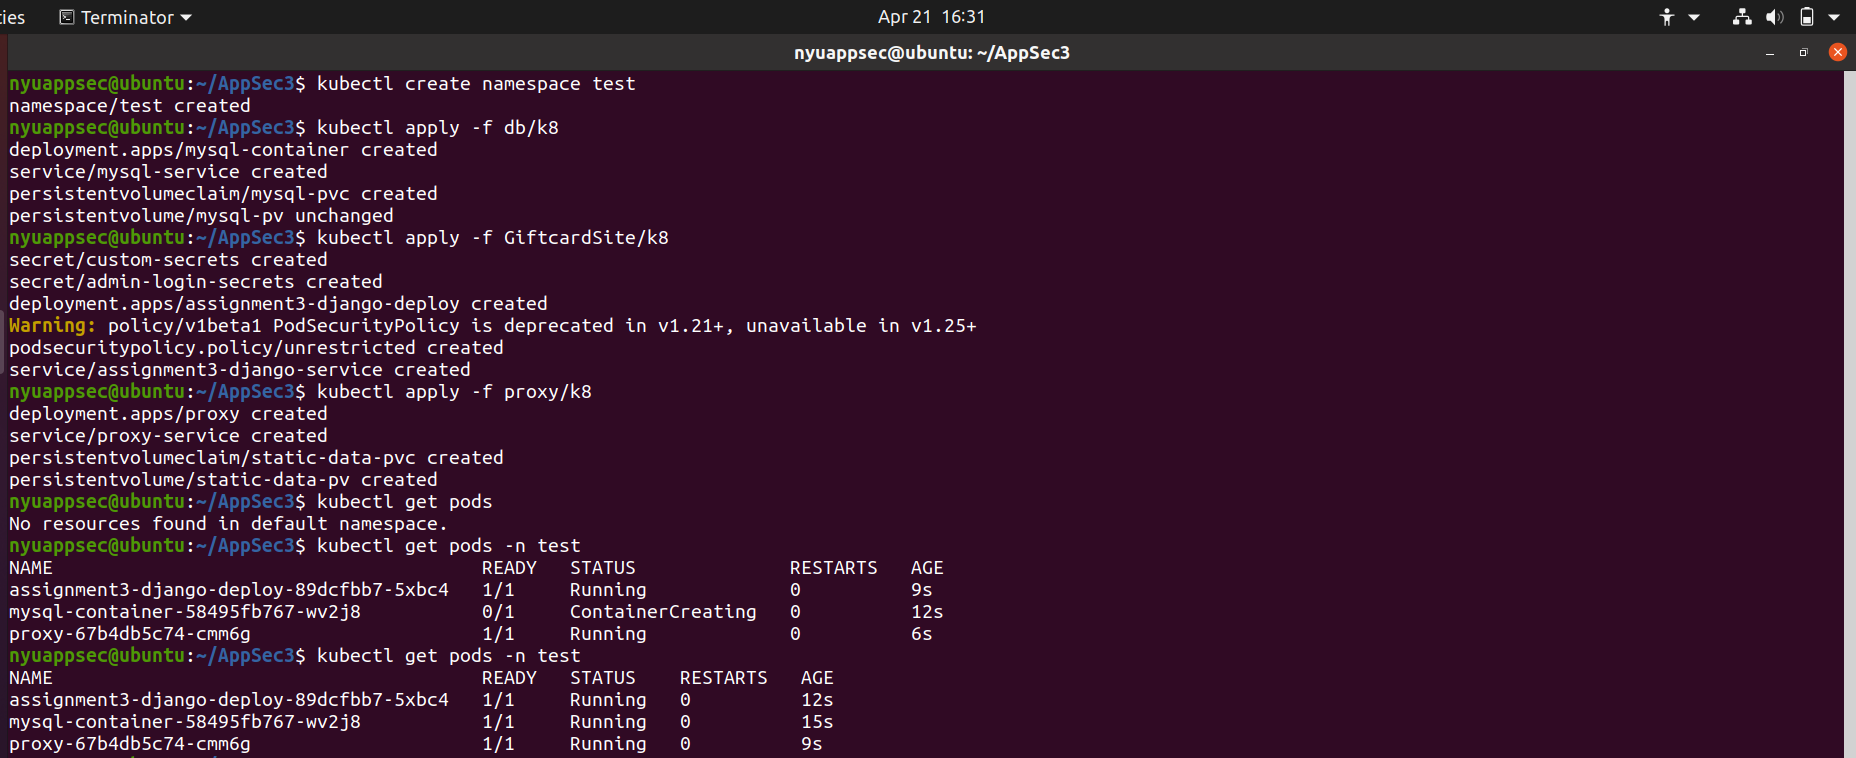
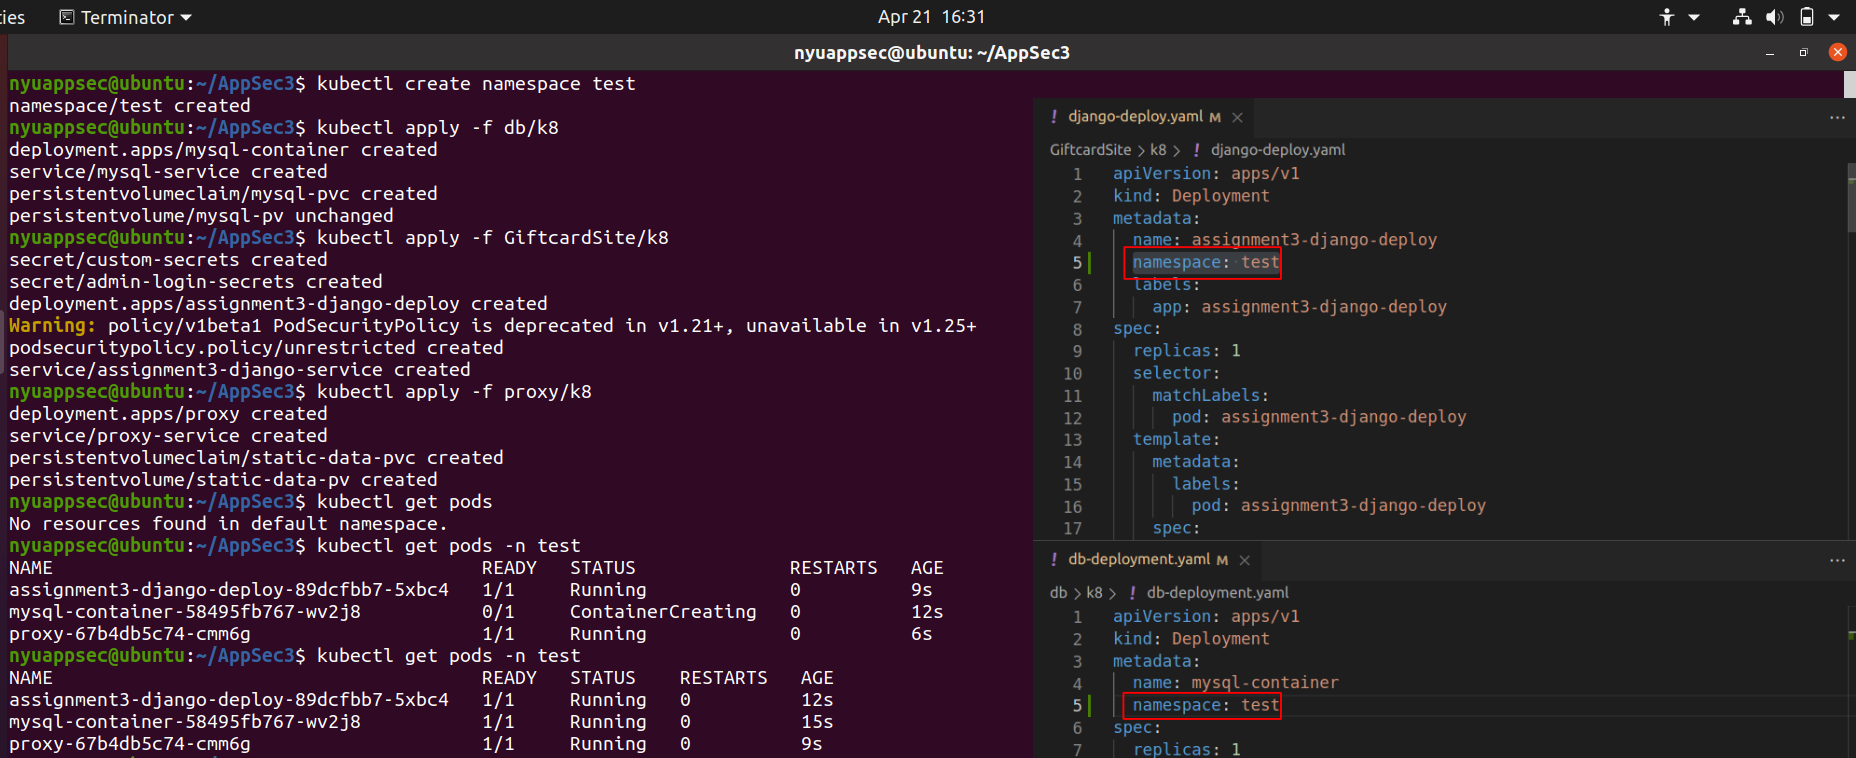
Final Upload

Changed region(s): [[0.5625, 0.1214, 1.0, 1.0]]

diff --git a/Report/ank8821-Appsec-Lab3.md b/Report/ank8821-Appsec-Lab3.md
@@ -1,9 +1,231 @@
 # Part 1: Remediate Security Review Findings
 
-### Finding 1:
+## Finding 1: Kubernetes Control #5.2.1
 ---
-We can see that the when we run `kubectl get psp` to view the security policy, our container is running with full privileges which should not be allowed.
-
-In order to remediate the finding, we run `kubectl edit `
+We can see that the when we run `kubectl get psp` to view the security policy, our container is running with full privileges which should not be allowed because then the container will be allowed to do almost everything the host can do. Additionally, in the image below when we run the command mentioned in the benchmark file to get the value for `spec.privileged` field from the psp we can see that it returns **true**.
 
 ![](./Artifacts/policy-1-1.png)
+
+In order to remediate the finding, we open the `django-psp.yaml` file in the GiftcardSite/k8 folder and change the privileged field from true to false. Upon applying the changes we can see that command now shows no output which means that there our container is not running with full privileges.
+
+![](./Artifacts/policy-1-2.png)
+
+## Finding 2: Kubernetes Control #5.2.2
+---
+Here, we have found that our container shares the host process ID namespace and it should not be allowed because this can assist in escalating privileges outside of the container. When we run the command in the benchmark to fetch for `spec.hostPID` value from the psp we can see that the output is **true**.
+
+![](./Artifacts/policy-2-1.png)
+
+In order to remediate the finding, we edit the psp file and change the hostPID field from true to false. Upon applying the changes we can see that our command no longer shows an output of true which means we there is not container that shares the host process ID namespace and we have successfully remediated the finding.
+
+![](./Artifacts/policy-2-2.png)
+
+## Finding 3: Kubernetes Control #5.2.3
+---
+Here, we have found that our container shares the host IPC namespace and this should not be allowed because this it can be used to interact with processes outside of the container. On running the command in the benchmark to fetch the value for `spec.hostIPC` from the psp, it gives an output of **true**.
+
+![](./Artifacts/policy-3-1.png)
+
+In order to remediate the finding, we edit the hostIPC field in the psp and change it to false. Upon applying the changes that our command no longer gives an output which indicates that we have successfully remediated the findings.
+
+![](./Artifacts/policy-3-2.png)
+
+## Finding 4: Kubernetes Control #5.2.4
+---
+We have found that our container shares the host network namespace and it should not be allowed because this can be used to access network traffic to and from other pods. On running the command in the benchmark to fetch the value for `spec.hostNetwork` we can see that it outputs a value **true**.
+
+![](./Artifacts/policy-4-1.png)
+
+In order to remediate the finding, we change the hostNetwork field in the psp to false. On applying the changes we can see that our command no longer gives an output which indicates that we have successfully remediated the finding.
+
+![](./Artifacts/policy-4-2.png)
+
+## Finding 5: Kubernetes Control #5.2.5
+---
+We have found that our container runs with allow privilege escalation flag set to true. This should not be allowed because this can allow the container to gain more privileges than the parent. On running the command in the benchmark to fetch the value for `spec.allowPrivilegeEscalation` we can see that it outputs a value **true**.
+
+![](./Artifacts/policy-5-1.png)
+
+In order to remediate the finding, we change the allowPrivilegeEscalation field in the psp to false. On applying the changes we can see that our command no longer gives an output which indicates that we have successfully remediated the finding.
+
+![](./Artifacts/policy-5-2.png)
+
+## Finding 6: Kubernetes Control #5.2.6
+---
+We have found that our container is allowed to run as root and it should not be allowed because this can be used to break out of the container. On running the command in the benchmark to fetch the value for `spec.runAsUser.rule` we can see that it outputs a value **RunAsAny** which indicates that it is allowed to run as root.
+
+![](./Artifacts/policy-6-1.png)
+
+In order to remediate the finding, we change the runAsUser field in the psp and set the rule to `MustRunAsNonRoot`. On applying the changes we can see that our command gives an output value of MustNotRunAsRoot which indicates that we have successfully remediated the finding.
+
+![](./Artifacts/policy-6-2.png)
+
+## Finding 7: Kubernetes Control #5.2.7
+---
+We have found that our container is running with NET_RAW capability and it should not be allowed because this capability can be misused by an attacker to create further damage if he has gained access to the pod or any other connected pod. On running the command in the benchmark to fetch the value for `spec.requiredDropCapabilities` we can see that it does not output anything. This means that the pod is not dropping any capabilities.
+
+![](./Artifacts/policy-7-1.png)
+
+In order to remediate the finding, we change add requiredDropCapabilities field in the psp and set its value to NET_RAW. On applying the changes we can see that our command gives an output of \["NET_RAW"\] which indicates that we have successfully remediated the finding.
+
+![](./Artifacts/policy-7-2.png)
+
+## Finding 8: Kubernetes Control #5.4.1
+---
+In this finding we can see in the image below that our pod uses sensitive values like secret key and the database password that is stored directly inside the settings.py and the deployment file in plaintext.
+
+![](./Artifacts/policy-8.png)
+
+In order to remediate this, we first create our own kubernetes secret file and store the new values for secret key and the database password in them. These values are base64 encoded.
+
+![](./Artifacts/policy-8a.png)
+
+We then make changes to our deployment file such that it fetches our base64 encoded values from the custom-secrets file that we created and stores them as environment variable in the pods.
+
+We also make changes to settings.py file so that our application fetches secret key and the database password from the environment variables. After applying the changes, when we get a shell on the pod we can see that the environment variables now have values that we had created and stored in the custom-secrets file.
+
+![](./Artifacts/policy-8b.png)
+
+On apply all the deployments again, we can see that our site is still running as expected.
+
+![](./Artifacts/policy-8c.png)
+
+## Finding 9: Kubernetes Control #5.7.1
+---
+We have found that currently there are no namespaces implemented in our deployment. We have to create a namespace so that resources in one namespace are hidden from another namespace which can help reduce the impact in case of an attack. When we run `kubectl get namespaces` we can see that we only have the default namespace.
+
+![](./Artifacts/policy-9.png)
+
+In order to remediate the finding we first create a namespace and make changes to all the yaml files in our Appsec3 folder. Under the metadata we add the namespace field with the value of test which is the namespace we created. We then apply the configurations and check if the pods run.
+In the image below we can see that our pods are running successfully.
+
+![](./Artifacts/policy-9-2.png)
+
+Now when we run `kubectl get namespaces` we can see our test namespace also exists. On running `minikube service list` we can see that our test namespace is up and running. Hence we have successfully remediated the finding.
+
+![](./Artifacts/policy-9-1.png)
+
+## Finding 10: Kubernetes Control #5.7.2
+---
+We have found that Seccomp is disabled in our cluster. This should not be done because Seccomp restricts the system calls applications make thus allowing administrator a greater control over the security of workload.
+We can see in the below image that our deployment files do not have the securitycontext set.
+
+![](./Artifacts/policy-10.png)
+
+In order to remediate the finding we add the following lines to all three of our deployment files
+
+> `securityContext:` </br>
+&nbsp;&nbsp;&nbsp;&nbsp;&nbsp;`seccompProfile:` </br>
+&nbsp;&nbsp;&nbsp;&nbsp;&nbsp;&nbsp;&nbsp;&nbsp;&nbsp;&nbsp;`type: RuntimeDefault`
+
+After making the above changes and applying them we can see that no errors were thrown and we have successfully applied the changes.
+
+![](./Artifacts/policy-10-1.png)
+
+## Finding 11: Docker Control #4.1
+---
+We have found that our Giftcardsite container and the proxy container are running as root. When we run the command from the benchmark to fetch the UID of the containers we can see that the containers are running with the UID of 0 which means root.
+
+![](./Artifacts/policy-11-1.png)
+
+In order to remediate the finding, we edit the the Dockerfile for Giftcardsite and proxy to add a new user and then we switch to that user. In the image below we can see that when we run the command to fetch the UID of the containers we can see that the UID has now changed to 100. Also when we get shell inside the container and run `whoami` we can see that the container is running as the user that we created in the Dockerfile.
+
+![](./Artifacts/policy-11-3.png)
+
+## Finding 12: Docker Control #4.2
+---
+This finding remediated because the dockerfile is already built off of a high trust base image.
+
+## Finding 13: Docker Control #4.3
+---
+Here, we have found that there are unnecessary packages installed on our container. This should not be done because they only increase the attack surface. We can check for all the installed packages using the command `apk info` inside the docker container. We can see the output in the image below.
+
+![](./Artifacts/policy-13.png)
+
+In order to remediate the finding, we comment out the lines that install the unnecessary packages and rebuild the docker image. We can see that our image was successfully built with no errors.
+
+![](./Artifacts/policy-13-1.png)
+
+We can also see that our website is still working as expected.
+
+![](./Artifacts/policy-13-2.png)
+
+## Finding 14: Docker Control #4.9
+---
+We have found that our Dockerfile uses the command ADD in order to copy files from local host to the container. This is dangerous because the ADD command can also be used to fetch files from remote URLs.
+
+In order to mitigate the finding, we use the COPY command instead of add. This command can only copy files and hence cannot be used to fetch malicious files from a remote server.
+
+![](./Artifacts/policy-14-1.png)
+
+After replacing the ADD command with COPY and rebuilding the Dockerfiles we can see that our application is still functioning as expected.
+
+![](./Artifacts/policy-14-2.png)
+
+## Finding 15: Docker Control #4.10
+---
+We can see that the Dockerfile inside the db folder uses stored password for the database. This should not be done because the passwords are in plaintext and storing them inside dockerfiles is not a good practice.
+
+In order to remediate the finding:
+- We comment out the line that stores the password from the Dockerfile.
+- Use the custom-secret file created previously
+- Change the db-deployment.yaml file to read secret from the custom-secret file and store is as environment variable.
+
+Below image demonstrates the entire process.
+
+![](./Artifacts/policy-15-1.png)
+
+After rebuilding the Docker image and applying changes to the deployment file we can see that our mysql pod is running and it has now the sql password from our custom-secrets file.
+
+![](./Artifacts/policy-15-2.png)
+
+## Finding 16: MySQL Control 1.2
+---
+This finding is a pass because we are already using least privileged account to run the MYSQL Service.
+
+## Finding 17: MySQL Control #2.3
+---
+This finding is a pass because we already have a dedicated machine running for MYSQL.
+
+## Finding 18: MySQL Control #2.7
+---
+We have found that the password never expires. This should not happen because users should have to change their password periodically. On running the command in the benchmark we can see that the default_password_lifetime is 0. This means that the password never expires.
+
+![](./Artifacts/policy-18-1.png)
+
+In order to remediate the finding, we edit the `setup.sql` file and set the default_password_lifetime to 100. This means the the password will expire after 100 days. On rebuilding the image and running the benchmark command again we can see that the changes have been applied successfully.
+
+![](./Artifacts/policy-18-2.png)
+
+## Finding 19: MySQL Control #2.9
+---
+We have found that there are no policies defined to disable password reuse and ensure strong password policy. When we run the command in the benchmark we get the below output. Both values of 0 mean that there are no rules.
+
+![](./Artifacts/policy-19-1.png)
+
+In order to remediate the finding, we edit the `setup.sql` file and set the password_history to 5 and password_reuse_interval to 366. On rebuilding the image and running the benchmark command again we can see that the changes have been applied successfully.
+
+![](./Artifacts/policy-19-2.png)
+
+## Finding 19: MySQL Control #4.2
+---
+This finding states that we should not have any test/example databases on our container. On running the command in the benchmark, we can see that we only have our production db running and no other databases. Hence we have already passed this control.
+
+![](./Artifacts/policy-20-1.png)
+
+# Part 2
+In order to automate the findings and make them run periodically we use kubernetes CronJob. A cronjob is a task the can run itself after predefined intervals. The cronjob will create a new pod every time it will run. 
+
+In the CronJob configuration, we add the database to the pod along with the database password from our custom-secret file. We then mount an executable bash file into the pod which contains the command that will check for the controls. The mounted file is created used kubernetes configmap. This is used to create a file from the commands mentioned inside of it. We then simply run the mounted bash file and get the output from the controls. In the image below we can see our configmap file and the CronJob file.
+
+![](./Artifacts/part-2-2.png)
+
+We then apply the configmap and the cronjob using kubectl. The CronJob checks for MySQL control #2.7 and #2.9. It will not only display the output of the command in the benchmark but all the result whether the test passed or failed depending upon the output.
+
+In the image below we can see that the CronJob created a new pod. Upon completion we can check its logs to see the output. Here we can see that it shows that password lifetime control has passed because its value is 100 but it did not pass the password reuse policy because it is not greater than or equal to 365.
+
+![](./Artifacts/part-2-1.png)
+
+When we change the password reuse interval to 366 in the setup.sql file and rebuild the images and rerun the CronJob we can see that it outputs that the control was passed.
+
+![](./Artifacts/part-2-3.png)
